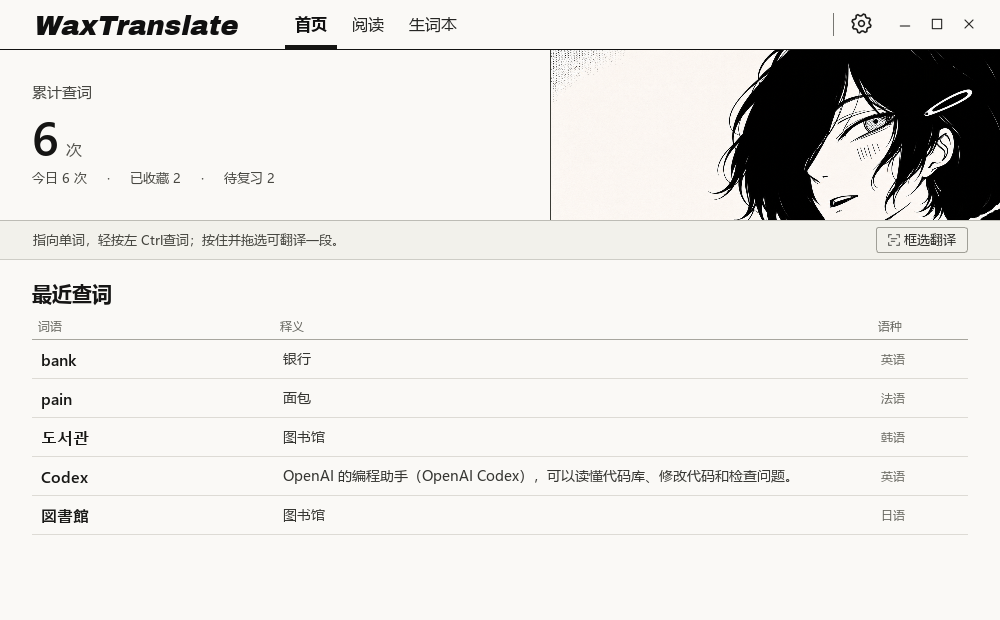
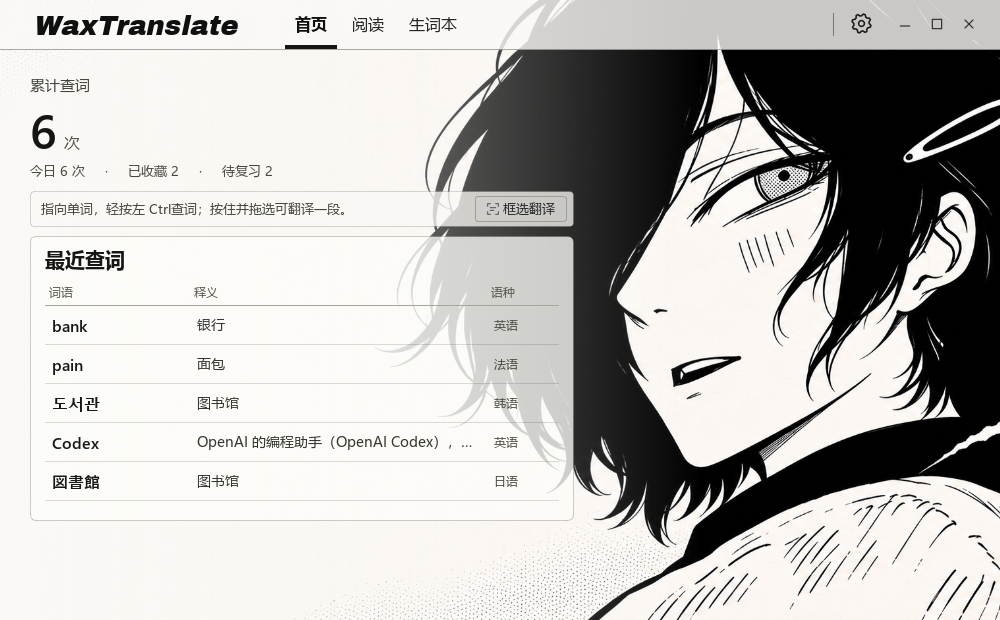
Carry the manga artwork across the entire reading window

diff --git a/windows/home.py b/windows/home.py
@@ -1,25 +1,23 @@
 """Windows lookup dashboard."""
-from pathlib import Path
-
-from PySide6.QtCore import QRectF, QSize, Qt, QTimer, Signal
-from PySide6.QtGui import QColor, QFont, QPainter, QPixmap
+from PySide6.QtCore import QSize, Qt, QTimer, Signal
+from PySide6.QtGui import QColor, QFont
 from PySide6.QtWidgets import (
-    QAbstractItemView, QFrame, QHeaderView, QHBoxLayout, QLabel, QPushButton, QSizePolicy,
-    QStackedLayout, QTableWidget, QTableWidgetItem, QVBoxLayout, QWidget,
+    QAbstractItemView, QFrame, QHeaderView, QHBoxLayout, QLabel, QPushButton,
+    QSizePolicy, QSpacerItem, QStackedLayout, QTableWidget, QTableWidgetItem, QVBoxLayout, QWidget,
 )
 
 from languages import NAMES
 from theme import ui_icon
 
 
-COVER = Path(__file__).resolve().parents[1] / "Assets/Editorial/glance.png"
 HOME_STYLE = """
-    QWidget#home {background:#faf9f6;}
+    QWidget#home {background:transparent;}
+    QFrame#recentSheet {background:rgba(253,252,248,197); border:1px solid rgba(66,65,57,66); border-radius:6px;}
     QLabel#totalLabel {color:#464641; font-size:15px; font-weight:500;}
     QLabel#totalValue {font:600 48px 'Segoe UI'; color:#151514;}
     QLabel#metricUnit {font-size:16px; color:#565650;}
     QLabel#activity {font-size:13px; color:#484842;}
-    QFrame#guideBar {background:#f2f1eb; border-top:1px solid #bdbcb5; border-bottom:1px solid #cecdc6;}
+    QFrame#guideBar {background:rgba(250,249,245,194); border:1px solid rgba(66,65,57,52); border-radius:4px;}
     QPushButton#useHint {background:transparent; color:#44443e; border:1px solid transparent;
         font-size:13px; text-align:left; padding:3px 0;}
     QPushButton#useHint:focus, QPushButton#useHint:hover {border-bottom:1px solid #565650;}
@@ -28,35 +26,14 @@ HOME_STYLE = """
     QPushButton#region:focus, QPushButton#region:hover {background:#e6e5de; border-color:#54544e;}
     QLabel#recentTitle {font-size:20px; font-weight:600;}
     QLabel#emptyHistory {color:#696962; font-size:14px;}
-    QTableWidget#recentWords {background:#faf9f6; border:0; outline:0;
+    QTableWidget#recentWords, QHeaderView {background:transparent; border:0; outline:0;
         selection-background-color:#e4e3dc; selection-color:#171715;}
-    QTableWidget#recentWords::item {border:0; border-bottom:1px solid #dddbd5; padding:0 6px;}
+    QTableWidget#recentWords::item {border:0; border-bottom:1px solid rgba(74,73,65,50); padding:0 4px;}
     QTableWidget#recentWords::item:focus {border:1px solid #76766d;}
-    QHeaderView::section {background:#faf9f6; color:#686861; font-size:12px; padding:3px 6px;
+    QHeaderView::section {background:transparent; color:#55554e; font-size:12px; padding:3px 4px;
         border:0; border-bottom:1px solid #a7a69e;}
-    QLabel#homeWarning {color:#862d21; padding:3px 14px;}
+    QLabel#homeWarning {background:rgba(250,249,246,220); color:#862d21; padding:3px 7px;}
 """
-
-
-class Portrait(QWidget):
-    def __init__(self):
-        super().__init__()
-        self.image = QPixmap(str(COVER))
-        self.setSizePolicy(QSizePolicy.Ignored, QSizePolicy.Expanding)
-
-    def paintEvent(self, event):
-        if self.image.isNull():
-            return
-        # Keep the eye in view as the dashboard banner changes proportions.
-        w, h = self.image.width(), self.image.height()
-        scale = max(self.width() / w, self.height() / h)
-        crop_w, crop_h = self.width() / scale, self.height() / scale
-        x = max(0, min(w - crop_w, w * 0.72 - crop_w * 0.54))
-        y = max(0, min(h - crop_h, h * 0.31 - crop_h * 0.46))
-        with QPainter(self) as painter:
-            painter.setRenderHint(QPainter.SmoothPixmapTransform)
-            painter.drawPixmap(QRectF(self.rect()), self.image, QRectF(x, y, crop_w, crop_h))
-            painter.fillRect(0, 0, 1, self.height(), QColor("#393933"))
 
 
 class HomePage(QWidget):
@@ -68,18 +45,17 @@ class HomePage(QWidget):
         super().__init__(parent, objectName="home")
         self.setAttribute(Qt.WA_StyledBackground)
         self.setStyleSheet(HOME_STYLE)
-        page = QVBoxLayout(self)
-        page.setContentsMargins(0, 0, 0, 0)
-        page.setSpacing(0)
-
-        self.banner = QWidget()
-        hero = QHBoxLayout(self.banner)
-        hero.setContentsMargins(0, 0, 0, 0)
-        hero.setSpacing(0)
-        metrics = QWidget()
-        self.summary = QVBoxLayout(metrics)
+        outer = QHBoxLayout(self)
+        outer.setContentsMargins(0, 0, 0, 0)
+        outer.setSpacing(0)
+        self.column = QWidget()
+        outer.addWidget(self.column)
+        outer.addStretch(1)
+        self.page = QVBoxLayout(self.column)
+        self.page.setSpacing(9)
+        self.summary = QVBoxLayout()
         self.summary.setSpacing(2)
-        self.summary.addStretch()
+        self.page.addLayout(self.summary)
         self.summary.addWidget(QLabel("累计查词", objectName="totalLabel"))
         amount = QHBoxLayout()
         amount.setSpacing(7)
@@ -93,12 +69,8 @@ class HomePage(QWidget):
         self.summary.addLayout(amount)
         self.activity = QLabel(objectName="activity")
         self.summary.addWidget(self.activity)
-        self.summary.addStretch()
-        hero.addWidget(metrics, 55)
-        self.portrait = Portrait()
-        hero.addWidget(self.portrait, 45)
-        page.addWidget(self.banner)
-
+        self.art_space = QSpacerItem(0, 3, QSizePolicy.Minimum, QSizePolicy.Fixed)
+        self.page.addSpacerItem(self.art_space)
         bar = QFrame(objectName="guideBar")
         self.tools = QHBoxLayout(bar)
         self.tools.setSpacing(8)
@@ -113,21 +85,23 @@ class HomePage(QWidget):
         self.region.setCursor(Qt.PointingHandCursor)
         self.region.clicked.connect(self.region_requested)
         self.tools.addWidget(self.region)
-        page.addWidget(bar)
+        self.page.addWidget(bar)
 
         self.warning = QLabel(objectName="homeWarning")
         self.warning.setWordWrap(True)
         self.warning.hide()
-        page.addWidget(self.warning)
-        self.history = QVBoxLayout()
+        self.page.addWidget(self.warning)
+        self.sheet = QFrame(objectName="recentSheet")
+        self.page.addWidget(self.sheet, 1)
+        self.page.addStretch()
+        self.history = QVBoxLayout(self.sheet)
         self.history.setSpacing(7)
         self.history.addWidget(QLabel("最近查词", objectName="recentTitle"))
         self.contents = QStackedLayout()
         self.history.addLayout(self.contents, 1)
-        page.addLayout(self.history, 1)
 
         self.empty = QLabel(objectName="emptyHistory")
-        self.empty.setAlignment(Qt.AlignCenter)
+        self.empty.setAlignment(Qt.AlignLeft | Qt.AlignVCenter)
         self.contents.addWidget(self.empty)
         self.table = QTableWidget(0, 3, objectName="recentWords")
         self.table.setAccessibleName("最近查词，从新到旧")
@@ -137,6 +111,7 @@ class HomePage(QWidget):
         self.table.setSelectionMode(QAbstractItemView.SingleSelection)
         self.table.setWordWrap(False)
         self.table.setShowGrid(False)
+        self.table.viewport().setAutoFillBackground(False)
         self.table.setFrameShape(QFrame.NoFrame)
         self.table.verticalHeader().hide()
         self.table.verticalHeader().setDefaultSectionSize(39)
@@ -145,6 +120,7 @@ class HomePage(QWidget):
         header.setSectionResizeMode(QHeaderView.Fixed)
         header.setSectionResizeMode(1, QHeaderView.Stretch)
         header.setHighlightSections(False)
+        header.viewport().setAutoFillBackground(False)
         self.contents.addWidget(self.table)
         self.rows = []
         self.refresh = QTimer(self, interval=30_000)
@@ -171,6 +147,7 @@ class HomePage(QWidget):
             self.activity.setText(f"今日 {today:,} 次     ·     已收藏 {saved:,}     ·     待复习 {due:,}")
             self.empty.setText("还没有查词记录")
         self.contents.setCurrentWidget(self.table if recent else self.empty)
+        self.sheet.setMaximumHeight(90 + len(recent) * self.table.verticalHeader().defaultSectionSize())
         if recent == self.rows:
             return
         self.rows = recent
@@ -184,7 +161,7 @@ class HomePage(QWidget):
                 font.setPixelSize((16, 14, 12)[column])
                 font.setWeight(QFont.DemiBold if column == 0 else QFont.Normal)
                 item.setFont(font)
-                item.setForeground(QColor(("#181816", "#363632", "#696962")[column]))
+                item.setForeground(QColor(("#181816", "#363632", "#484841")[column]))
                 self.table.setItem(row, column, item)
 
     def resizeEvent(self, event):
@@ -193,13 +170,18 @@ class HomePage(QWidget):
 
     def arrange(self):
         compact = self.width() < 720
-        margin = 18 if compact else 32
-        self.banner.setFixedHeight(130 if compact else 170)
-        self.summary.setContentsMargins(margin, 4, 8, 6)
-        self.tools.setContentsMargins(margin, 6, margin, 6)
-        self.history.setContentsMargins(margin, 14 if compact else 21, margin, 12)
-        self.table.setColumnWidth(0, max(106, min(242, self.width() // 4)))
-        self.table.setColumnWidth(2, 76 if compact else 96)
+        margin = 14 if compact else 30
+        width = min(self.width(), max(467, min(740, round(self.width() * 0.58))))
+        self.column.setFixedWidth(width)
+        # In a tall window leave the portrait visible above the history sheet.
+        gap = max(3, min(240, round((self.height() - self.width()) * 0.85))) if compact else 3
+        self.art_space.changeSize(0, gap, QSizePolicy.Minimum, QSizePolicy.Fixed)
+        self.page.invalidate()
+        self.page.setContentsMargins(margin, 14 if compact else 26, 6, 14)
+        self.tools.setContentsMargins(9, 4, 6, 4)
+        self.history.setContentsMargins(14, 10, 14, 9)
+        self.table.setColumnWidth(0, max(96, min(158, width // 4)))
+        self.table.setColumnWidth(2, 62 if compact else 72)
 
     def showEvent(self, event):
         super().showEvent(event)

diff --git a/windows/theme.py b/windows/theme.py
@@ -111,8 +111,10 @@ def apply_theme(app):
     app.setPalette(palette)
     app.setStyleSheet("""
         QWidget {color:#161615; font-size:13px;}
-        QWidget#desk, QWidget#home, QWidget#readingPage, QWidget#library, QWidget#settingsSurface,
-        QScrollArea#settingsPage, QScrollArea#lookupHome {background:#faf9f6; border:0;}
+        QWidget#desk {background:#faf9f6; border:0;}
+        QWidget#home, QScrollArea#settingsPage {background:transparent; border:0;}
+        QWidget#readingPage, QWidget#library {background:rgba(250,249,246,168); border:0;}
+        QWidget#settingsSurface {background:rgba(250,249,246,191); border:0;}
         QLabel {background:transparent; border:0;}
         QLabel[role="heading"] {color:#161615; font-size:28px; font-weight:600;}
         QLabel[role="subhead"] {color:#161615; font-size:15px; font-weight:600;}
@@ -122,7 +124,7 @@ def apply_theme(app):
         QLabel[role="shortcut"] {color:#595955; background:#f0efea; border:1px solid #bcbcb6;
             border-radius:4px; padding:2px 5px; font:12px 'Consolas';}
 
-        QFrame#sidebar {background:#faf9f6; border:0; border-bottom:1px solid #131312;}
+        QFrame#sidebar {background:rgba(250,249,246,205); border:0; border-bottom:1px solid rgba(30,30,27,95);}
         QFrame#navDivider {background:#777772; border:0;}
         QPushButton[role="windowControl"] {background:transparent; border:0; border-radius:2px; padding:0;}
         QPushButton[role="windowControl"]:hover, QPushButton[role="windowControl"]:focus {background:#e7e6df;}
@@ -166,13 +168,13 @@ def apply_theme(app):
         QMenu::item:selected {background:#e6e5df; color:#161615;}
         QToolTip {background:#161615; color:#fffefa; border:0; padding:5px 8px;}
 
-        QFrame#readingSheet {background:#fffefa; border:1px solid #d5d4ce; border-radius:2px;}
+        QFrame#readingSheet {background:rgba(255,254,250,105); border:1px solid rgba(60,60,53,72); border-radius:4px;}
         QFrame#editor {background:transparent; border:0;}
-        QFrame#translationPane {background:#f0efea; border:0; border-top-right-radius:2px;}
+        QFrame#translationPane {background:rgba(237,236,230,68); border:0; border-top-right-radius:4px;}
         QFrame#binding {border:0; background:#d5d4ce;}
         QFrame#hairline {background:#d5d4ce; border:0; min-height:1px; max-height:1px;}
-        QFrame#entrySheet {background:#fffefa; border:1px solid #d5d4ce; border-radius:2px;}
-        QFrame#emptyBook {background:#f0efea; border:0; border-radius:2px;}
+        QFrame#entrySheet {background:rgba(255,254,250,110); border:1px solid rgba(60,60,53,72); border-radius:4px;}
+        QFrame#emptyBook {background:rgba(246,245,240,100); border:0; border-radius:4px;}
         QFrame#settingsGroup {background:transparent; border:0; border-top:1px solid #747470;}
         QLabel[role="paneTitle"] {font:600 17px 'Microsoft YaHei UI'; color:#161615;}
         QLabel[role="language"] {font-size:12px; color:#595955;}

diff --git a/windows/app.py b/windows/app.py
@@ -7,8 +7,8 @@ from pathlib import Path
 import sys
 import time
 
-from PySide6.QtCore import QEvent, QPoint, QPointF, QProcess, QRect, QSettings, QSize, Qt, QTimer, QUrl, Signal
-from PySide6.QtGui import QColor, QCursor, QDesktopServices, QIcon, QPainter, QPen
+from PySide6.QtCore import QEvent, QPoint, QPointF, QProcess, QRect, QRectF, QSettings, QSize, Qt, QTimer, QUrl, Signal
+from PySide6.QtGui import QColor, QCursor, QDesktopServices, QIcon, QLinearGradient, QPainter, QPen, QPixmap
 from PySide6.QtWidgets import (QApplication, QButtonGroup, QFrame, QHBoxLayout, QLayout,
                                QMenu, QPushButton, QSizePolicy, QStackedWidget, QSystemTrayIcon, QVBoxLayout, QWidget)
 
@@ -141,6 +141,7 @@ class Window(QWidget):
         super().__init__()
         self.setWindowTitle(APP_NAME)
         self.setObjectName("desk")
+        self.backdrop = QPixmap(str(Path(__file__).resolve().parents[1] / "Assets/Editorial/glance.png"))
         self.setAttribute(Qt.WA_StyledBackground)
         self.player = SpeechPlayer(self)
         self.card = Card(self.player)
@@ -296,6 +297,26 @@ class Window(QWidget):
     def resizeEvent(self, event):
         super().resizeEvent(event)
         self.arrange_shell(event.size().width() < 740)
+
+    def paintEvent(self, event):
+        super().paintEvent(event)
+        if self.backdrop.isNull():
+            return
+        w, h = self.backdrop.width(), self.backdrop.height()
+        scale = max(self.width() / w, self.height() / h)
+        crop_w, crop_h = self.width() / scale, self.height() / scale
+        x = max(0, min(w - crop_w, w * 0.72 - crop_w * 0.78))
+        y = max(0, min(h - crop_h, h * 0.32 - crop_h * 0.34))
+        with QPainter(self) as painter:
+            painter.setRenderHint(QPainter.SmoothPixmapTransform)
+            painter.drawPixmap(QRectF(self.rect()), self.backdrop, QRectF(x, y, crop_w, crop_h))
+            # Keep the unboxed statistics legible when a portrait-shaped window crops the ink.
+            wash = QLinearGradient(0, 0, self.width(), 0)
+            wash.setColorAt(0, QColor(250, 249, 246, 230))
+            compact = self.width() < 720
+            wash.setColorAt(0.49 if compact else 0.37, QColor(250, 249, 246, 202 if compact else 110))
+            wash.setColorAt(0.70, QColor(250, 249, 246, 0))
+            painter.fillRect(self.rect(), wash)
 
     def arrange_shell(self, compact):
         if self.compact == compact:

diff --git a/windows/check.py b/windows/check.py
@@ -71,7 +71,7 @@ class Checks(unittest.TestCase):
                 self.assertTrue(QFontDatabase.hasFamily("Spectral"))
                 self.assertGreaterEqual(window.wordmark.width(), window.wordmark.fontMetrics().horizontalAdvance("WaxTranslate"))
                 home = window.home
-                self.assertFalse(home.portrait.image.isNull())
+                self.assertFalse(window.backdrop.isNull())
                 for width, height in ((1080, 675), (570, 485), (540, 610), (540, 800)):
                     window.resize(width, height)
                     QApplication.processEvents()
@@ -80,6 +80,8 @@ class Checks(unittest.TestCase):
                         self.assertTrue(home.rect().contains(bounds), (width, height, bounds))
                     self.assertGreaterEqual(home.instructions.width(), home.instructions.sizeHint().width())
                     self.assertFalse(home.instructions.geometry().intersects(home.region.geometry()))
+                    if width > 900:
+                        self.assertLess(home.sheet.mapTo(home, home.sheet.rect().topRight()).x(), width * 0.65)
                 window.resize(570, 485)
                 self.assertLessEqual(window.width(), 572)
                 next(b for b in window.sidebar.findChildren(QPushButton) if b.text() == "阅读").click()

diff --git a/README.md b/README.md
@@ -17,7 +17,7 @@ WaxTranslate 的 macOS 版使用 Vision 在本机识字，使用 Apple 翻译处
 
 ## WaxTranslate Windows 桌面版
 
-![Windows 首页显示累计查词次数和最近查过的词、释义与语种](Assets/Previews/windows-home.png)
+![整窗漫画背景上的查词看板，左侧显示累计次数和最近词条](Assets/Previews/windows-home.png)
 
 在 Windows 11 x64 上完整解压便携包，双击 `WaxTranslate.exe`。程序默认在系统托盘待命，可以直接取词。点击时钟旁的 WaxTranslate 图标（可能在「显示隐藏的图标」里），或再次双击启动器，即可打开主窗口。包内含运行环境和离线模型，支持英语、日语、韩语、法语、德语、西班牙语、意大利语、葡萄牙语和俄语译为简体中文。可以直接在「阅读」页粘贴原文。屏幕取词和框选使用 Windows OCR。
 
